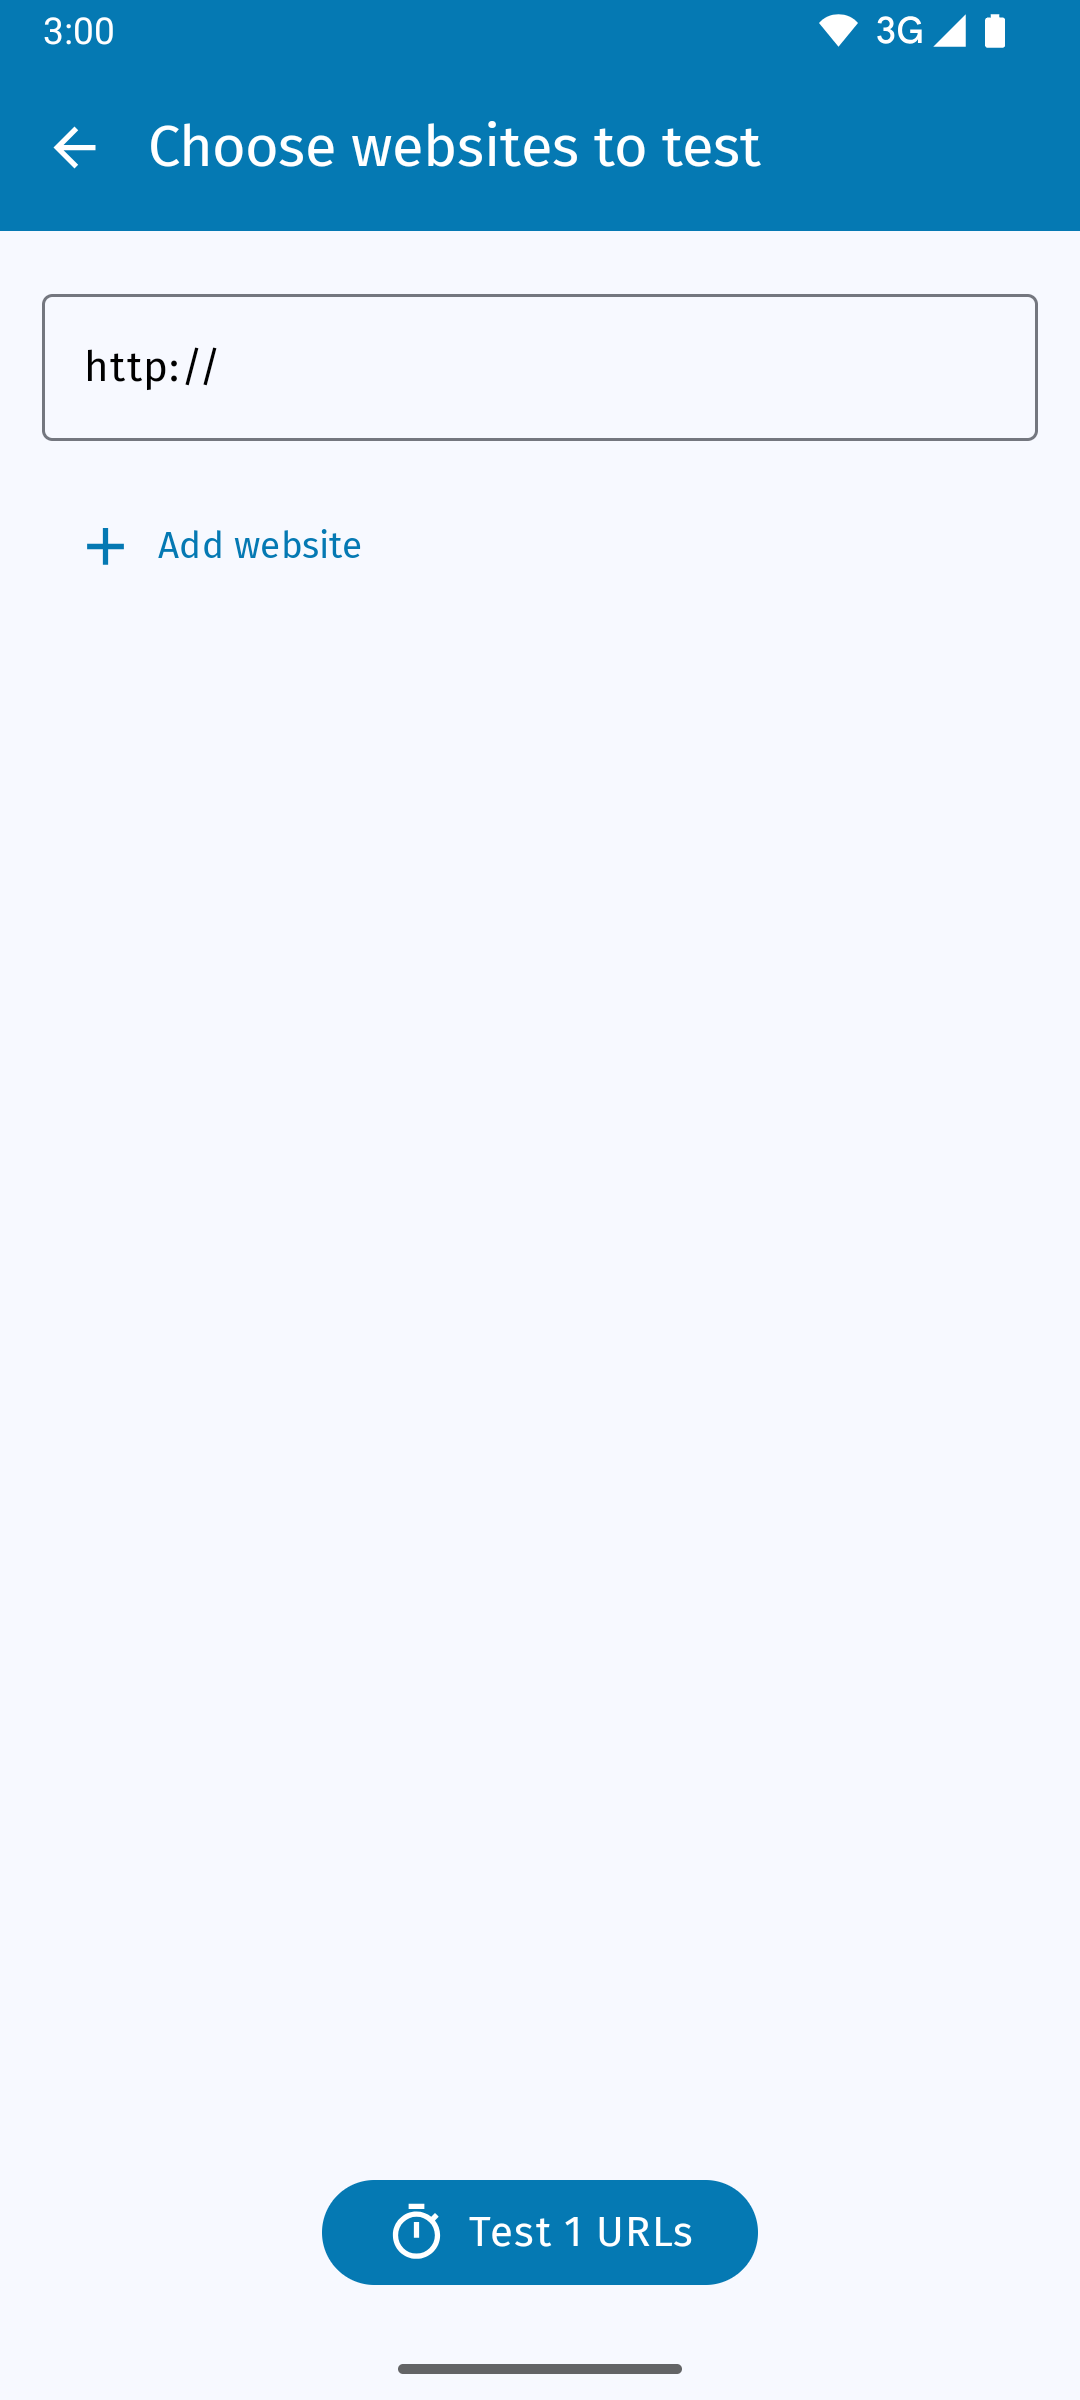
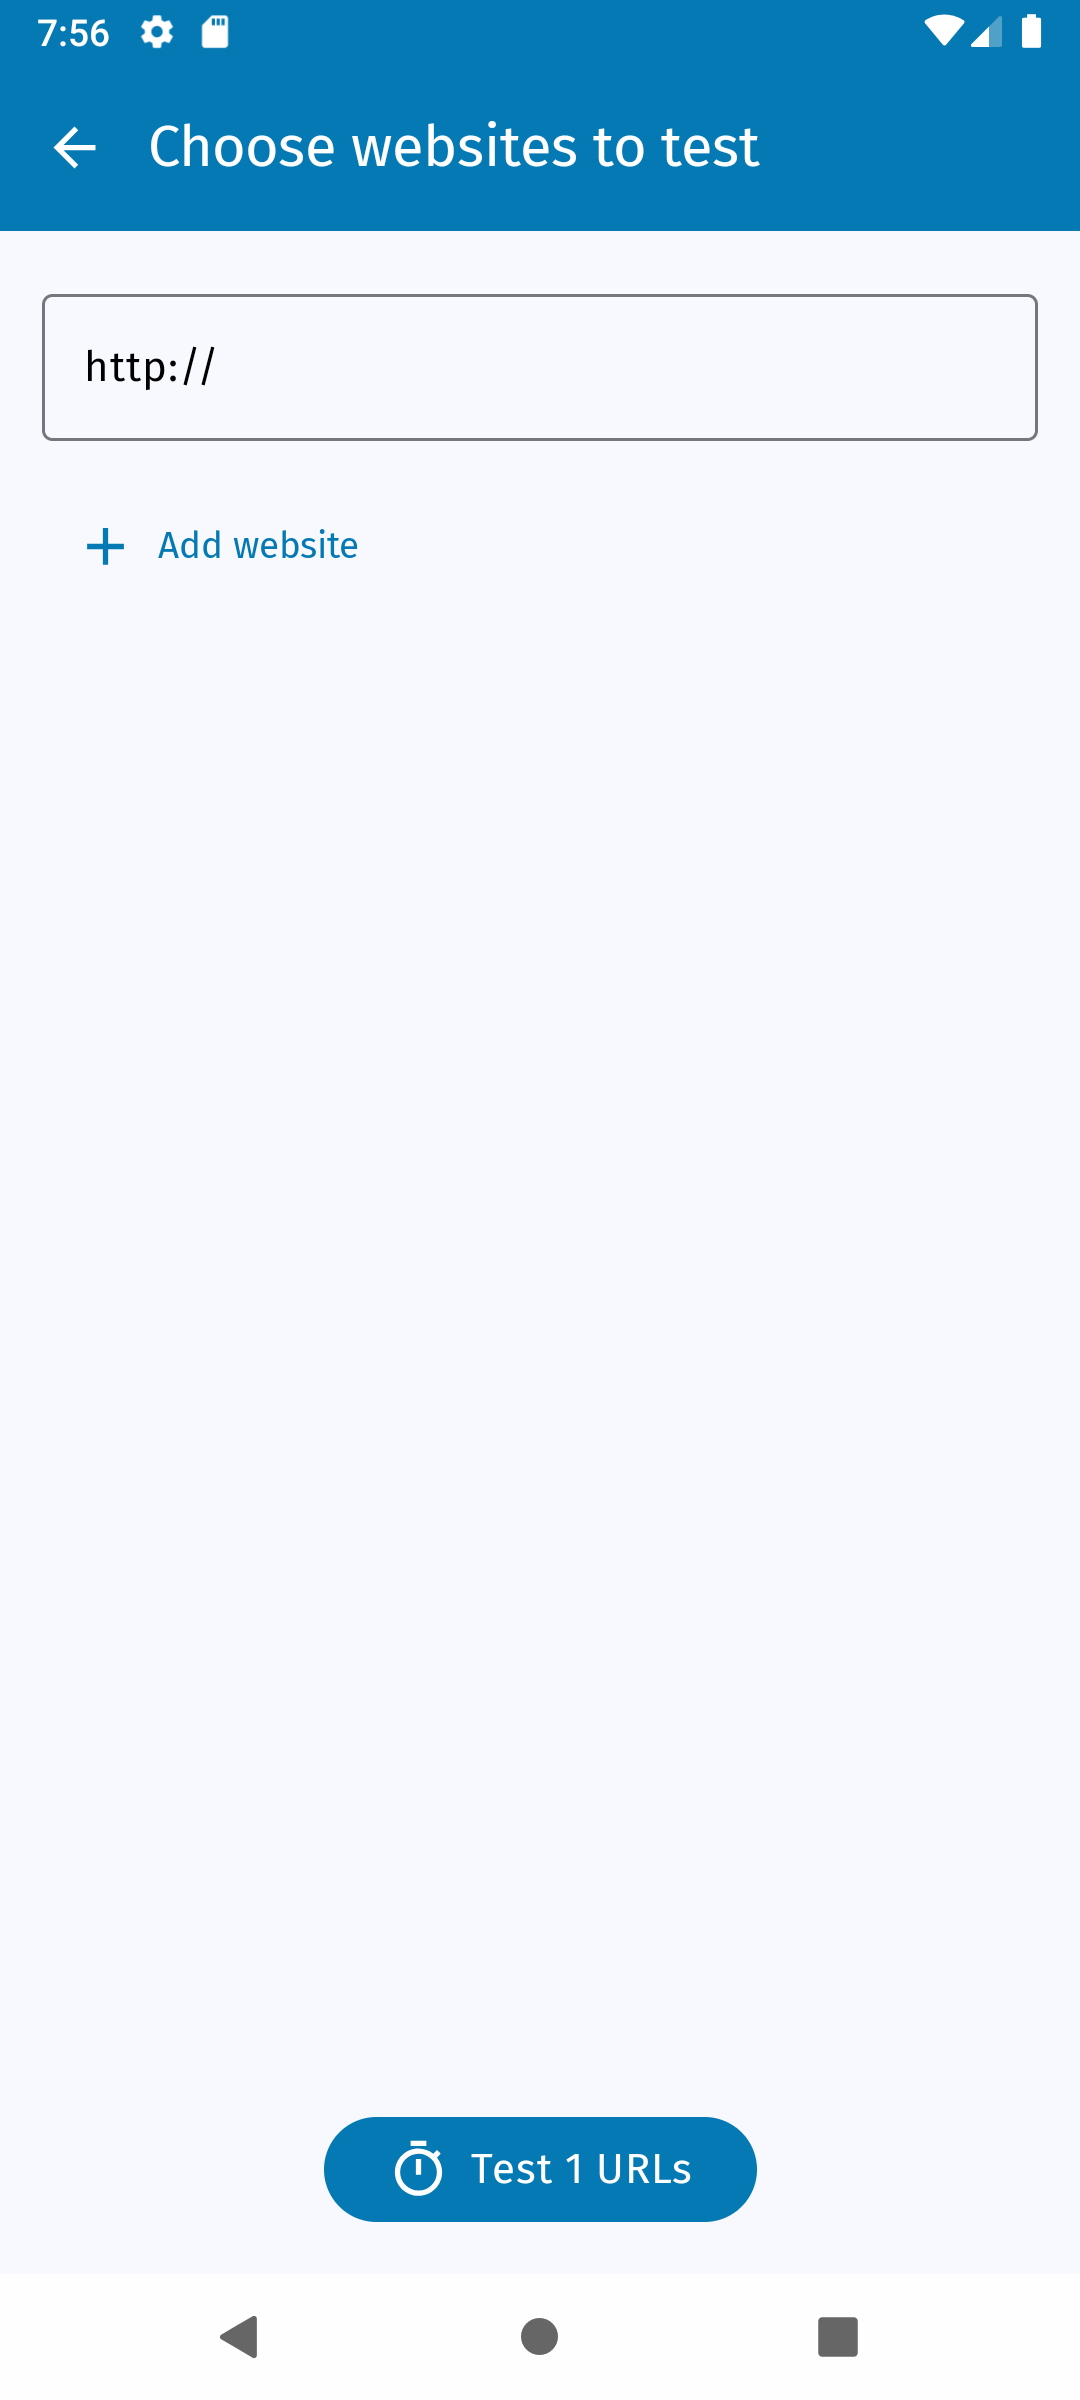
chore: update screenshots

diff --git a/composeApp/src/androidInstrumentedTest/kotlin/org/ooni/probe/screenshots/AutomateScreenshotsTest.kt b/composeApp/src/androidInstrumentedTest/kotlin/org/ooni/probe/screenshots/AutomateScreenshotsTest.kt
@@ -8,6 +8,7 @@ import androidx.test.ext.junit.runners.AndroidJUnit4
 import kotlinx.coroutines.flow.first
 import kotlinx.coroutines.test.runTest
 import ooniprobe.composeapp.generated.resources.Common_Back
+import ooniprobe.composeapp.generated.resources.Dashboard_Overview_ChooseWebsites
 import ooniprobe.composeapp.generated.resources.Dashboard_Progress_UpdateLink_Label
 import ooniprobe.composeapp.generated.resources.Modal_EnableNotifications_Title
 import ooniprobe.composeapp.generated.resources.OONIRun_Run
@@ -31,6 +32,7 @@ import ooniprobe.composeapp.generated.resources.Settings_Sharing_UploadResults_D
 import ooniprobe.composeapp.generated.resources.Settings_TestOptions_Label
 import ooniprobe.composeapp.generated.resources.Settings_Title
 import ooniprobe.composeapp.generated.resources.Settings_Websites_Categories_Label
+import ooniprobe.composeapp.generated.resources.Settings_Websites_CustomURL_Title
 import ooniprobe.composeapp.generated.resources.TestResults_Overview_Title
 import ooniprobe.composeapp.generated.resources.Test_Dash_Fullname
 import ooniprobe.composeapp.generated.resources.Test_Performance_Fullname
@@ -303,6 +305,29 @@ class AutomateScreenshotsTest {
                 checkTextAnywhereInsideWebView("2160p (4k)")
 
                 Screengrab.screenshot("20-dash-measurement")
+            }
+        }
+
+    @Test
+    fun choseWebsites() =
+        runTest {
+            skipOnboarding()
+            start()
+            with(compose) {
+                wait { onNodeWithContentDescription(Res.string.app_name).isDisplayed() }
+
+                wait(timeout = 30.seconds) {
+                    onNodeWithText(Res.string.Dashboard_Progress_UpdateLink_Label)
+                        .isNotDisplayed()
+                }
+
+                if (isOoni) {
+                    clickOnText(Res.string.Test_Websites_Fullname)
+                    wait { onNodeWithText(Res.string.Test_Websites_Fullname).isDisplayed() }
+                    clickOnText(Res.string.Dashboard_Overview_ChooseWebsites)
+                    wait { onNodeWithText(Res.string.Settings_Websites_CustomURL_Title).isDisplayed() }
+                    Screengrab.screenshot("21-choose-websites")
+                }
             }
         }
 
